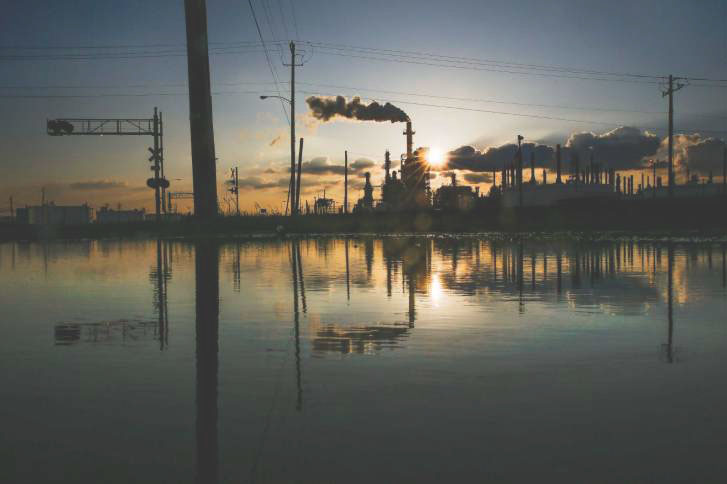
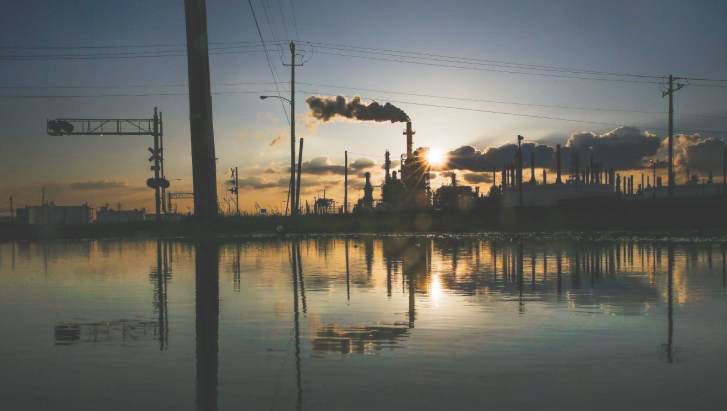
Cropped all the photos to the same size

diff --git a/contact.html b/contact.html
@@ -45,7 +45,7 @@
 </div>
 
 <div id="contacttext">
-<p style="color:black;"> Matt Dempsey is the data editor for the Houston Chronicle's Investigations team. He joined the Chronicle in 2014. Matt previously worked for the Arizona Republic and Atlanta Journal-Constitution. His data journalism skills were used in projects involving payday lending, wildfires, state pensions and inequalities in high school sports. His passion for public records frequently leads to disclosure of important data from agencies at all levels of government. Matt has trained journalists at professional conferences and taught graduate and undergraduate students at Arizona State University's Walter Cronkite School of Journalism and Mass Communication. Contact Matt Dempsey <div class="email"><div class="center"><a href="mailto:matt.dempsey@chron.com"> here.</a></div></font></p></p>
+<p style="color:black;"> Matt Dempsey is the data editor for the Houston Chronicle's Investigations team. He joined the Chronicle in 2014. Matt previously worked for the Arizona Republic and Atlanta Journal-Constitution. His data journalism skills were used in projects involving payday lending, wildfires, state pensions and inequalities in high school sports. His passion for public records frequently leads to disclosure of important data from agencies at all levels of government. Matt has trained journalists at professional conferences and taught graduate and undergraduate students at Arizona State University's Walter Cronkite School of Journalism and Mass Communication. Contact Matt Dempsey <div class="email"><div class="center"><a href="mailto:matt.dempsey@chron.com"> here</a>.</div></font></p>
 </div>
 </article>
 
